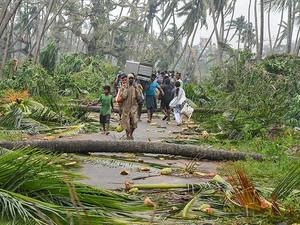
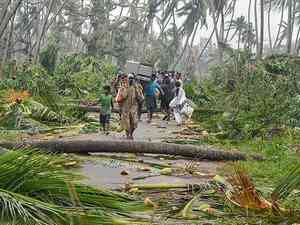
Update2.5

diff --git a/index.html b/index.html
@@ -2,7 +2,7 @@
 <html lang="en">
 <head>
 
-     <title>Disaster Management: Alpha6</title>
+     <title>Disaster Management: SEM_ALPHA</title>
 
      <meta charset="UTF-8">
      <meta http-equiv="X-UA-Compatible" content="IE=Edge">
@@ -21,16 +21,7 @@
 
 </head>
 <body >
-
-
-
-    
-    
-    
-
-
  
-    
 <!--  NEWS-->
 
 <div class="container" style="border: 1px solid balck">
@@ -308,7 +299,7 @@ Google Technical Project Manager (TensorFlow) Anitha Vijayakumar said the compan
 	<div class="news">
 	<h3> Relatives commemorate the victims of the 2004 Indian Ocean tsunami</h3>
 	<h6>26/12/2019 </h6>
-	<img src="16.webp" alt="">
+	<img src="16.jpg" alt="">
 
 	<p>Thousands converged in cemeteries in the Indonesian province of Aceh on Thursday to commemorate 15 years since a devastating tsunami.About 230,000 people lost their lives when a 9.1-magnitude undersea earthquake struck on the morning of December 26, 2004.
 
